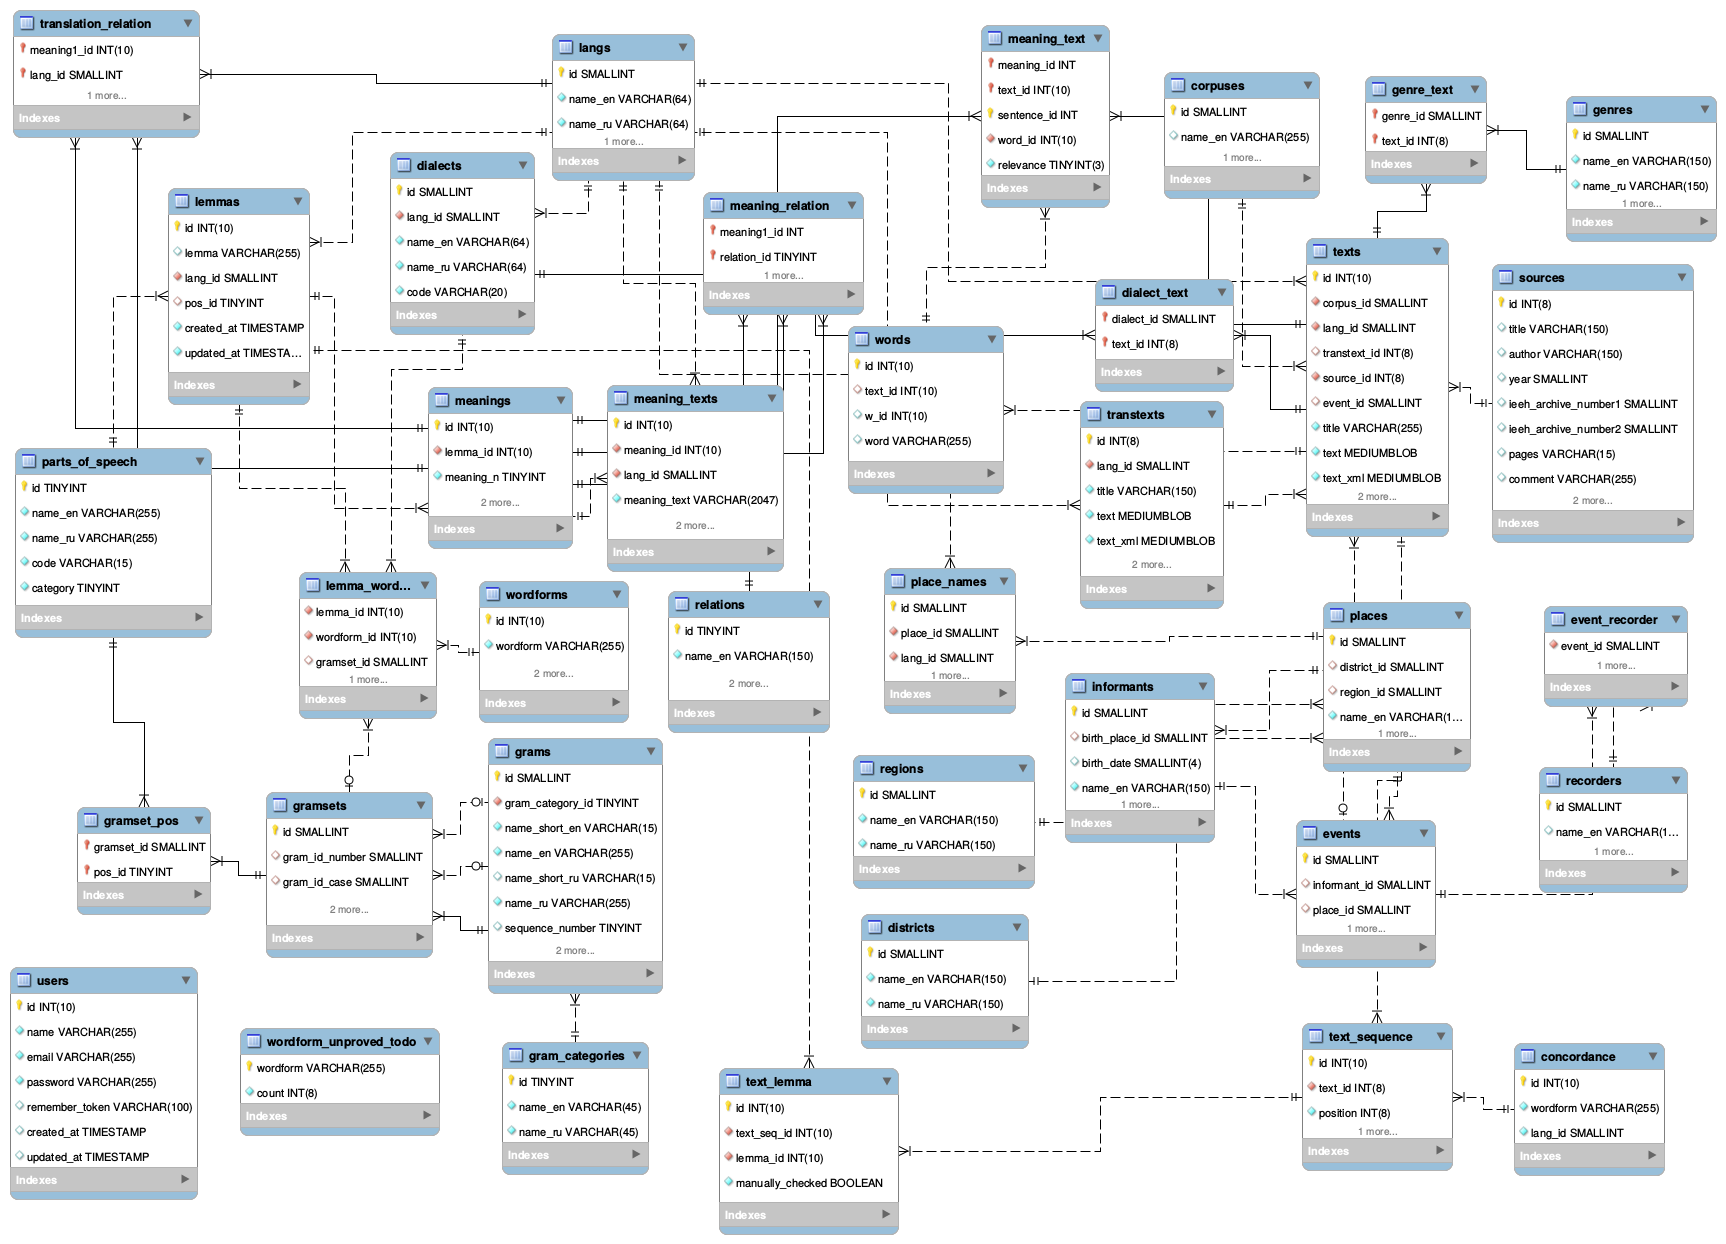
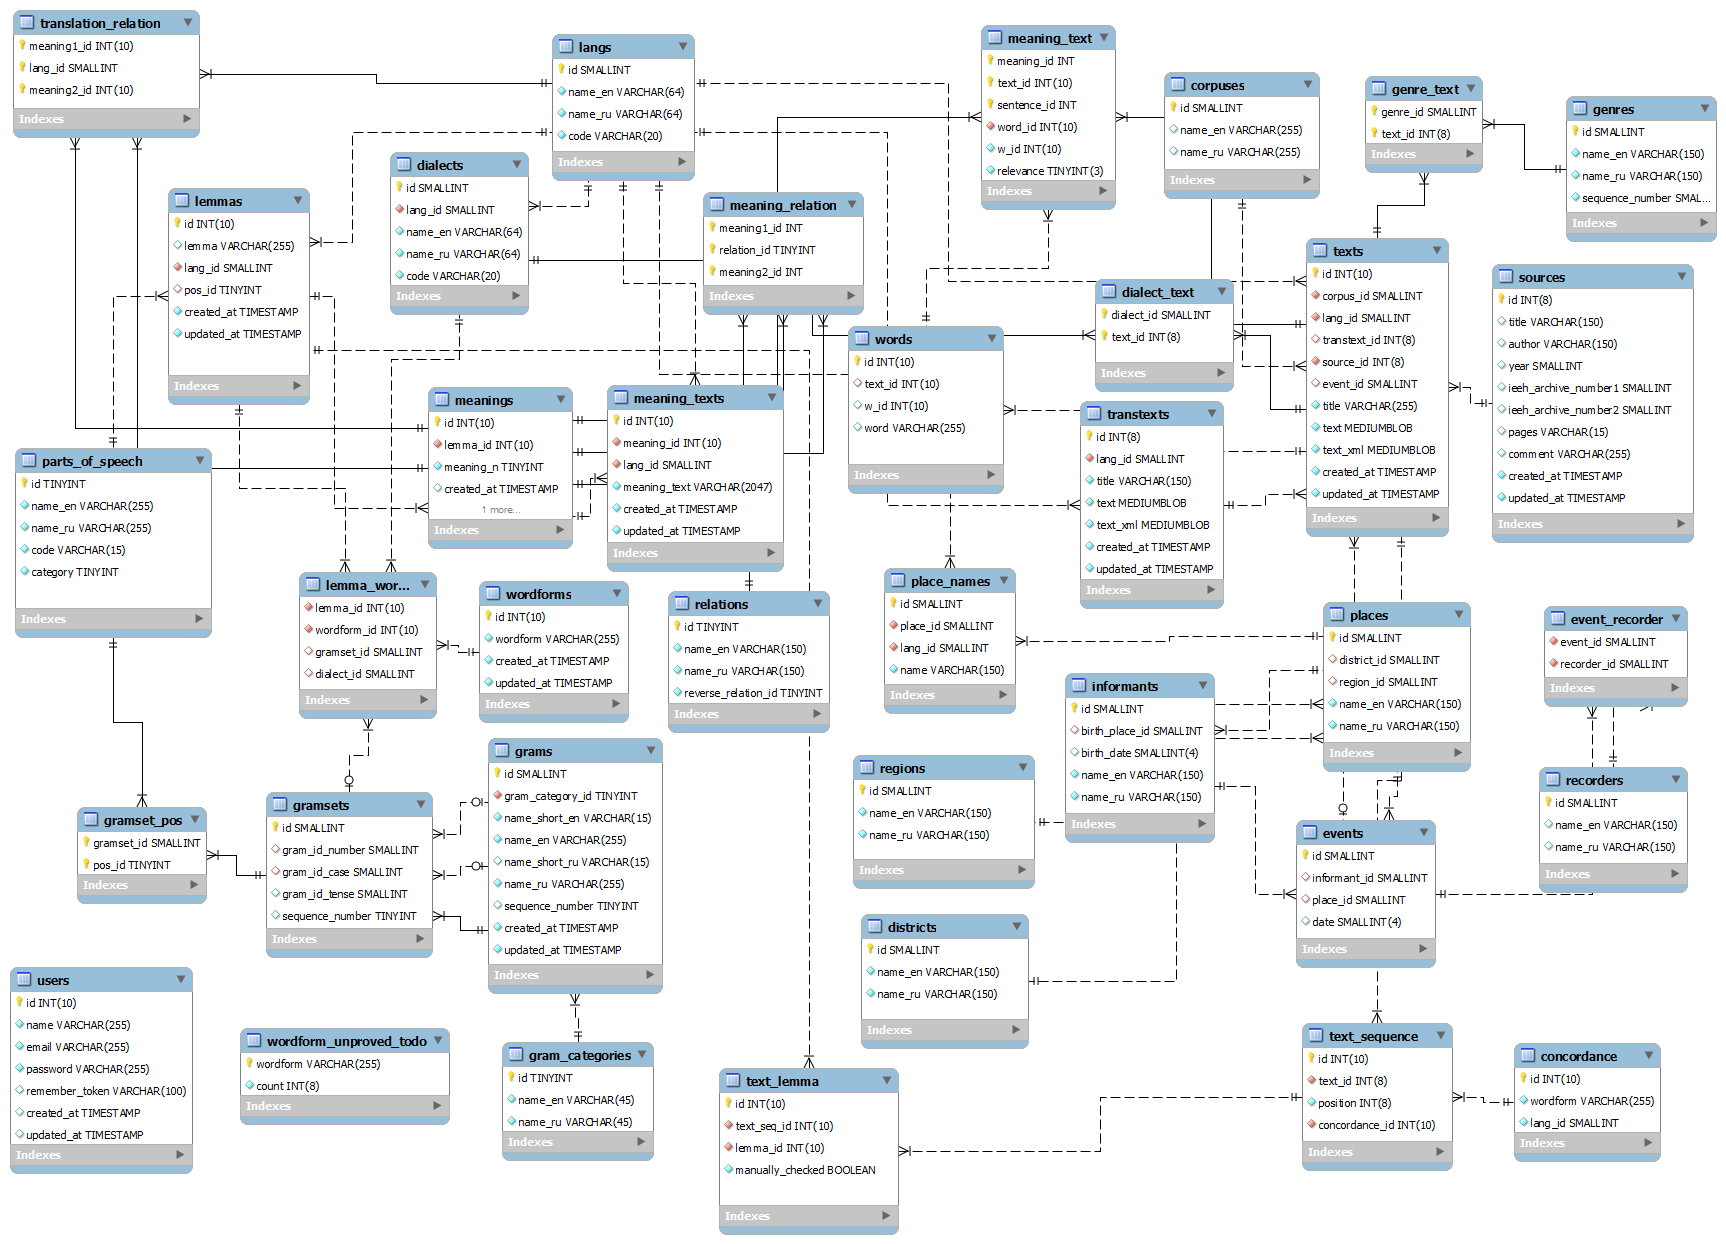
add records to meaning_text before new meaning additing

diff --git a/app/Models/Dict/Meaning.php b/app/Models/Dict/Meaning.php
@@ -11,6 +11,8 @@ use App\Models\Corpus\Transtext;
 use App\Models\Dict\Lang;
 use App\Models\Dict\Relation;
 
+use App\Models\Corpus\Word;
+
 class Meaning extends Model
 {
     use \Venturecraft\Revisionable\RevisionableTrait;
@@ -269,6 +271,10 @@ dd("!s: meaning_id=".$this->id.' and text_id='.$sentence->text_id.' and sentence
                     $meaning_text_obj -> meaning_text = $meaning_text;
                     $meaning_text_obj -> save();
                 }
+                
+                if (!$meaning_obj->texts()->count()) {
+                    $meaning_obj->addTextLinks();
+                }
             }
         }
     }
@@ -306,7 +312,11 @@ dd("!s: meaning_id=".$this->id.' and text_id='.$sentence->text_id.' and sentence
             if ($meaning_obj->meaningTexts()->count() || $meaning_obj->meaningRelations()->count()) { 
                 $meaning_obj -> meaning_n = $meaning['meaning_n'];
                 $meaning_obj -> save();
+                if (!$meaning_obj->texts()->count()) {
+                    $meaning_obj->addTextLinks();
+                }
             } else {
+                $meaning_obj->texts()->detach();
                 $meaning_obj -> delete();
             }
         }
@@ -373,6 +383,38 @@ dd("!s: meaning_id=".$this->id.' and text_id='.$sentence->text_id.' and sentence
                 $mean2_transls->attach($this->lemma->lang_id,
                                        ['meaning2_id'=>$this->id]);
             }
+        }
+    }
+    
+    /**
+     * Add records to meaning_text for new meanings
+     *
+     * @return NULL
+     */
+    public function addTextLinks()
+    {
+        $lemma_obj=$this->lemma;
+        $words = Word::where('word','like',$lemma_obj->lemma)->get();
+//dd($words);        
+        //$mean_ids = $lemma_obj->meanings()->where('id','<>',$this->id)->lists('id');
+        $meanings_builder = $lemma_obj->meanings();
+        
+        foreach ($words as $word) {
+            $relevance = 1;
+            // if some meaning has positive evaluation, it means that this meaning is not suitable
+            if ($meanings_builder->whereIn('id', function($q) use ($word) {
+                        $q->select('meaning_id')->from('meaning_text')
+                              ->where('text_id',$word->text_id)
+                              ->where('w_id',$word->w_id)
+                              ->where('relevance','>',1);
+                                         })->count()) {
+                $relevance = 0;
+            }
+            $this->texts()->attach($word->text_id,
+                    ['sentence_id'=>$word->sentence_id, 
+                     'word_id'=>$word->id, 
+                     'w_id'=>$word->w_id, 
+                     'relevance'=>$relevance]);        
         }
     }
 }

diff --git a/app/Models/Corpus/Text.php b/app/Models/Corpus/Text.php
@@ -238,10 +238,6 @@ class Text extends Model
             }
         }
         
-        if ($pseudo_end) {
-            
-        }
-        
         return trim($out);
     }
     
@@ -261,33 +257,16 @@ class Text extends Model
      */
     public function updateMeaningText(){
         list($sxe,$error_message) = self::toXML($this->text_xml,$this->id);
-/*        libxml_use_internal_errors(true);
-        $sxe = simplexml_load_string('<?xml version="1.0" encoding="utf-8" standalone="yes" ?>'.
-                                     '<text>'.$this->text_xml.'</text>');
-        $error_text = '';
-        if (!$sxe) {
-            $error_text = "XML loading error\n". '('.$this->id.')';
-            foreach(libxml_get_errors() as $error) {
-                $error_text .= "\t". $error->message. '('.$this->id.')';
-            }
-            return $error_text;
-        } */
         
         if ($error_message) {
             return $error_message;
         }
 
+        // saving old checked links
         $checked_words = [];
         $meanings = $this->meanings()->wherePivot('relevance','<>',1)
                          ->join('words','words.id','=','meaning_text.word_id')
                          ->get();
-/*
-        $meanings = DB::table('meaning_text')
-                            ->join('words','words.id','=','meaning_text.word_id')
-                            ->where('relevance','<>',1)
-                            ->where('words.text_id',$text_id)
-                            ->get();
- */
         foreach ($meanings as $meaning) {
             $checked_words[$meaning->w_id] =
                     [$meaning->word, $meaning->relevance];
@@ -305,6 +284,7 @@ class Text extends Model
                     $w_id = (int)$w_id;
 //dd($w_id);                    
                     $word_obj = Word::create(['text_id' => $this->id,
+                                              'sentence_id' => $s_id,
                                               'w_id' => $w_id,
                                               'word' => $word
                                             ]);

diff --git a/database/migrations/2016_10_26_171804_create_words_table.php b/database/migrations/2016_10_26_171804_create_words_table.php
@@ -18,6 +18,7 @@ class CreateWordsTable extends Migration
             $table->integer('text_id')->unsigned();
             $table->foreign('text_id')->references('id')->on('texts');
 
+            $table->integer('sentence_id')->unsigned();
             $table->integer('w_id')->unsigned();
             $table->string('word', 255)->collate('utf8_bin');
             

diff --git a/app/Models/Corpus/Word.php b/app/Models/Corpus/Word.php
@@ -8,7 +8,7 @@ class Word extends Model
 {
     public $timestamps = false;
     
-    protected $fillable = ['text_id', 'w_id', 'word'];
+    protected $fillable = ['text_id', 'sentence_id', 'w_id', 'word'];
     
     /** Word belongs_to Text
      * 
